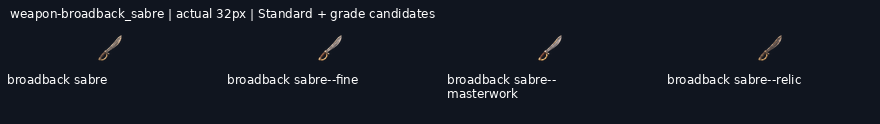
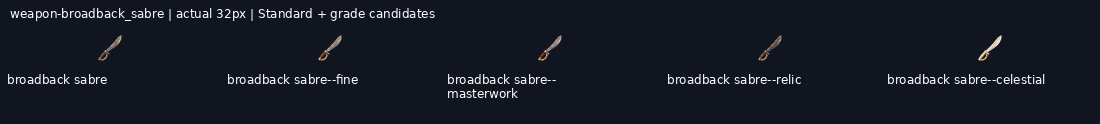
Deliver weapon-broadback_sabre--celestial review candidate with native provenance and exports

diff --git a/art/_archive/gear/2026-11-21-retry-continuation/HANDOFF.md b/art/_archive/gear/2026-11-21-retry-continuation/HANDOFF.md
@@ -1,13 +1,13 @@
 # Reset continuation progress
 
-Branch: `art/2026-11-20-reset-continuation`. New deliveries: 18/26.
+Branch: `art/2026-11-20-reset-continuation`. New deliveries: 19/26.
 
 Shared coordination: https://github.com/leonpentastorm/Project-Heaven-Cry/issues/3 . Read START-HERE.md before extending this queue.
 
 All new entries remain review-candidate; production_approved:false and implementation_ready:false. Exact-outline review remains pending.
 
-Ready jobs: weapon-purifier_flamer--masterwork, weapon-ork_cleaver_glaive--masterwork, weapon-hellraiser_rotary--celestial, weapon-broadback_sabre--celestial.
+Ready jobs: weapon-purifier_flamer--masterwork, weapon-ork_cleaver_glaive--masterwork, weapon-hellraiser_rotary--celestial.
 
-Pending jobs: weapon-purifier_flamer--masterwork, weapon-ork_cleaver_glaive--masterwork, weapon-purifier_flamer--relic, weapon-ork_cleaver_glaive--relic, weapon-hellraiser_rotary--celestial, weapon-purifier_flamer--celestial, weapon-broadback_sabre--celestial, weapon-ork_cleaver_glaive--celestial.
+Pending jobs: weapon-purifier_flamer--masterwork, weapon-ork_cleaver_glaive--masterwork, weapon-purifier_flamer--relic, weapon-ork_cleaver_glaive--relic, weapon-hellraiser_rotary--celestial, weapon-purifier_flamer--celestial, weapon-ork_cleaver_glaive--celestial.
 
 Quota state: null.

diff --git a/art/briefs/prompts-2026-11-19/PRODUCTION-STATUS.md b/art/briefs/prompts-2026-11-19/PRODUCTION-STATUS.md
@@ -1,12 +1,12 @@
 # Current sole-artist production
 
-**531/871 (61.0%) selected review candidates.** Last delivery: `weapon-broadback_sabre--relic`. Imports, exports, components, rejected attempts and archived alternatives add0. Artistic/implementation approvals remainfalse.
+**532/871 (61.1%) selected review candidates.** Last delivery: `weapon-broadback_sabre--celestial`. Imports, exports, components, rejected attempts and archived alternatives add0. Artistic/implementation approvals remainfalse.
 
 | Requested work | Selected | Total |
 | --- | ---: | ---: |
 | icons_tiles | 88 | 88 |
 | new_repaint_standards | 53 | 104 |
-| grades | 376 | 656 |
+| grades | 377 | 656 |
 | uniques | 14 | 23 |
 
 Active run sole-20261121-0109, branch art/2026-11-20-reset-continuation. Shared live ledger: https://github.com/leonpentastorm/Project-Heaven-Cry/issues/3 . Current renewed grade lane: art/_archive/gear/2026-11-21-retry-continuation/START-HERE.md. All earlier512 candidate drawings were integrated before this lane; native bytes, cleaned imports, source metadata and all prior failures preserved.

diff --git a/art/_archive/gear/2026-11-20-reset-continuation/START-HERE.md b/art/_archive/gear/2026-11-20-reset-continuation/START-HERE.md
@@ -1,6 +1,6 @@
 # Current21November continuation
 
-531/871 selected. Active lane art/_archive/gear/2026-11-21-retry-continuation/START-HERE.md, run sole-20261121-0109. User explicitly authorized renewed fictional-art attempts; all priorart/errors preserved. Read liveissue3+allcomments and remote deliveries before everyrender. RunningScript completed with original marks unchanged. All approvalsfalse;0.30 holdsremain. See PRODUCTION-STATUS.md and REMAINING-WORK.json for the latest exact count.
+532/871 selected. Active lane art/_archive/gear/2026-11-21-retry-continuation/START-HERE.md, run sole-20261121-0109. User explicitly authorized renewed fictional-art attempts; all priorart/errors preserved. Read liveissue3+allcomments and remote deliveries before everyrender. RunningScript completed with original marks unchanged. All approvalsfalse;0.30 holdsremain. See PRODUCTION-STATUS.md and REMAINING-WORK.json for the latest exact count.
 
 # Historical20November handoff
 
